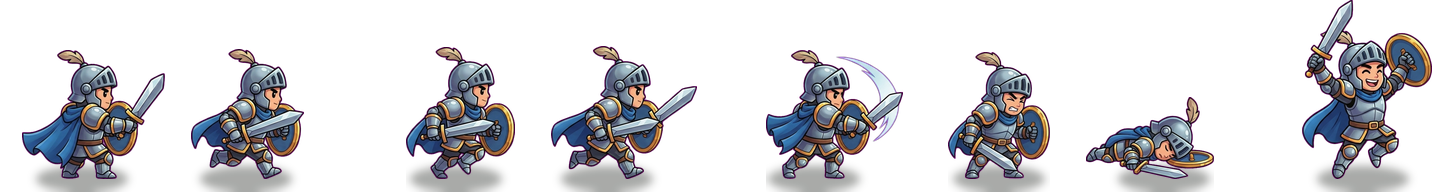
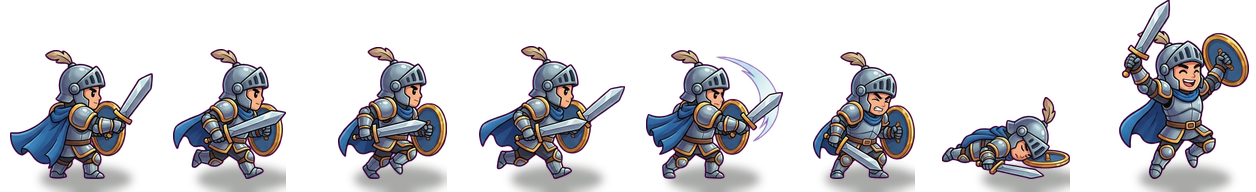
Bola de fogo no sentido certo, corrida estável, cabo do machado para o herói e base da onda na água
Claude-Session: https://claude.ai/code/session_01Pzwr3AcNttGrgNkJhUhbb6

Changed region(s): [[0.0, 0.2188, 0.8694, 1.0], [0.8694, 0.0, 1.0, 0.9375], [0.9626, 0.875, 0.9936, 0.9688]]

diff --git a/src/systems/weapons.ts b/src/systems/weapons.ts
@@ -357,6 +357,23 @@ export class WeaponSystem {
 
   // ---------- Onda (Água) ----------
 
+  private foamEmitter?: Phaser.GameObjects.Particles.ParticleEmitter;
+
+  /** Espuma branca subindo da base das ondas (um emissor para todas). */
+  private foam() {
+    this.foamEmitter ??= this.scene.add.particles(0, 0, 'atlas', {
+      frame: frameName('glow'),
+      speedY: { min: -26, max: -6 },
+      speedX: { min: -14, max: 14 },
+      lifespan: { min: 280, max: 480 },
+      scale: { start: 0.22, end: 0.05 },
+      alpha: { start: 0.95, end: 0 },
+      tint: [0xffffff, 0xe6f7ff, 0xbfe8ff],
+      emitting: false,
+    }).setDepth(LAYER.fx + 1);
+    return this.foamEmitter;
+  }
+
   private fireWave(w: WeaponRuntime): boolean {
     const p = this.scene.player;
     const target = this.scene.nearestEnemies(p.x, p.y, 1, 280)[0];
@@ -393,8 +410,11 @@ export class WeaponSystem {
     const left = cos < 0;
     const tilt = Phaser.Math.Clamp(Math.atan2(sin, Math.abs(cos)), -0.5, 0.5);
     const vertical = Math.abs(sin);
-    const img = this.scene.add.image(x0, y0, 'atlas', frameName('fx_wave')).setFlipX(left).setRotation(left ? -tilt : tilt).setDepth(LAYER.fx);
+    // a base da arte se dissolve sobre uma lâmina d'água no chão, com espuma onde a onda encosta
+    const img = this.scene.add.image(x0, y0, 'atlas', frameName('fx_wave')).setOrigin(0.5, 0.86).setFlipX(left).setRotation(left ? -tilt : tilt).setDepth(LAYER.fx);
     if (w.level >= AWAKEN_EVERY) img.setTint(0xd8f4ff);
+    const sheet = this.scene.add.image(x0, y0, 'atlas', frameName('glow')).setTint(0x5fc4ff).setAlpha(0.55).setDepth(LAYER.groundFx);
+    const foam = this.foam();
     this.live.push((dt) => {
       traveled += speed * dt;
       const k = Math.min(1, traveled / range);
@@ -404,7 +424,16 @@ export class WeaponSystem {
       const cy = y0 + sin * traveled;
       // de lado, a largura da faixa é a altura da onda; na vertical, é a largura dela
       const sc = (width / 54) * (1 - vertical) + (width / 64) * vertical;
-      img.setPosition(cx, cy).setScale(sc).setDepth(cy).setAlpha((o.alpha ?? 1) * (k > 0.8 ? (1 - k) * 5 : 1));
+      const fade = (o.alpha ?? 1) * (k > 0.8 ? (1 - k) * 5 : 1);
+      img.setPosition(cx, cy).setScale(sc).setDepth(cy).setAlpha(fade);
+      // lâmina d'água: larga no sentido da crista, achatada no chão
+      const along = width * (1 - vertical) * 0.5 + width * vertical * 1.1;
+      const across = width * (1 - vertical) * 1.1 + width * vertical * 0.5;
+      sheet.setPosition(cx - cos * 6, cy - sin * 6 + 2).setDisplaySize(along * 1.3, across * 0.5).setAlpha(0.55 * fade);
+      for (let i = 0; i < 3; i++) {
+        const r = Math.random() - 0.5;
+        foam.emitParticleAt(cx - sin * r * width * 0.9 + cos * 4, cy + cos * r * width * 0.35 + sin * 4, 1);
+      }
       this.scene.queryEnemies(cx, cy, width, (e) => {
         if (hit.has(e.uid)) return;
         const dx = e.x - x0;
@@ -418,6 +447,7 @@ export class WeaponSystem {
       });
       if (k < 1) return true;
       img.destroy();
+      sheet.destroy();
       if (g >= 2 && !o.width) {
         // a onda arrebenta no fim
         this.scene.impact(cx, cy, 0x41a6f6, 1.6);
@@ -657,8 +687,9 @@ export class WeaponSystem {
         }
         gfx.fillStyle(c, al * alpha).fillPoints([...outer, ...inner.reverse()], true);
       }
-      const tip = pt(a1, 0.9);
-      axe.setPosition(tip.x, tip.y).setRotation(a1 + Math.PI / 2).setAlpha(alpha);
+      // a arte tem a lâmina à esquerda e o cabo à direita: girada para o cabo apontar para o herói
+      const at = pt(a1, 0.72);
+      axe.setPosition(at.x, at.y).setRotation(a1 + Math.PI).setAlpha(alpha);
       // dano em quem a lâmina já varreu (só enquanto ela está descendo)
       if (k < 1 || !struck) scene.queryEnemies(p.x, p.y, reach + 20, (e) => {
         if (hit.has(e.uid)) return;
@@ -1153,5 +1184,6 @@ export class WeaponSystem {
   destroy() {
     this.orbs.forEach((o) => o.destroy());
     this.aura?.destroy();
+    this.foamEmitter?.destroy();
   }
 }

diff --git a/src/art/motion.ts b/src/art/motion.ts
@@ -18,7 +18,7 @@ const STEP = ['walk_a', 'walk_mid', 'walk_b', 'walk_mid'];
 const STRIDE = ['walk_a', 'idle', 'walk_b', 'idle'];
 const GAITS: Record<string, Gait> = {
   // herói correndo: passo com o pé de perto, passagem, passo com o pé de longe, passagem
-  hero: { fps: 10, cycle: STEP, squash: 0.035, tilt: 0.03 },
+  hero: { fps: 10, cycle: STEP, squash: 0.025, tilt: 0.01 },
   slime: { fps: 6, cycle: ['walk_a', 'walk_mid', 'walk_b', 'walk_a'], squash: 0.05, tilt: 0 },
   bat: { fps: 12, cycle: STEP, squash: 0.03, tilt: 0.05 },
   goblin: { fps: 8, cycle: STEP, squash: 0.03, tilt: 0.05 },

diff --git a/scripts/process-art.py b/scripts/process-art.py
@@ -9,7 +9,7 @@ import subprocess
 import sys
 from pathlib import Path
 
-from PIL import Image, ImageDraw, ImageFilter, ImageOps
+from PIL import Image, ImageChops, ImageDraw, ImageFilter, ImageOps
 
 SRC = Path('art/source')
 OUT = Path('src/assets/art')
@@ -89,6 +89,15 @@ def feet_span(im):
     w, h = im.size
     feet = im.getchannel('A').crop((0, int(h * 0.85), w, h)).point(lambda v: 255 if v >= 128 else 0).getbbox()
     return (feet[0], feet[2]) if feet else (0, w)
+
+
+def body_center(im):
+    """Centro (x) da cabeça e do tronco: mediana dos pixels opacos entre 8% e 45% da altura. Estável
+    entre os quadros de uma corrida, ao contrário dos pés, que se abrem e fecham."""
+    w, h = im.size
+    px = im.getchannel('A').load()
+    xs = [x for y in range(int(h * 0.08), int(h * 0.45), 2) for x in range(0, w, 2) if px[x, y] >= 128]
+    return sorted(xs)[len(xs) // 2] if xs else w / 2
 
 
 def with_shadow(im, size=None, cx=None):
@@ -251,11 +260,15 @@ def strip(frames, a, res, n_ref):
     k = a['h'] * res / heights[len(heights) // 2]
     frames = [premul_resize(f, (max(1, round(f.width * k)), max(1, round(f.height * k)))) for f in frames]
     fly = not a.get('shadow')
+    # bípedes: alinhados pela cabeça e tronco (os pés abrem e fecham na corrida e o corpo pularia
+    # de lado); os outros, pelo centro dos pés
+    biped = a.get('body') == 'biped'
+    anchors = [f.width / 2 if fly else body_center(f) if biped else sum(feet_span(f)) / 2 for f in frames]
     if a.get('shadow'):
         x0, x1 = feet_span(frames[0])
         size = max((x1 - x0) * 1.3, frames[0].width * 0.35)
-        frames = [with_shadow(f, size) for f in frames]
-    anchors = [(sum(feet_span(f)) / 2 if not fly else f.width / 2) for f in frames]
+        # sombra sempre sob o ponto de alinhamento: não escorrega entre os quadros
+        frames = [with_shadow(f, size, c if biped else None) for f, c in zip(frames, anchors)]
     left = max(anchors)
     right = max(f.width - c for f, c in zip(frames, anchors))
     cw = int(left + right) + 2
@@ -349,6 +362,15 @@ def main():
         cut = cut_background(Image.open(src))
         if a.get('flip'):
             cut = ImageOps.mirror(cut)
+        if a.get('fade'):
+            # base que some aos poucos (efeitos que encostam no chão, como a onda)
+            alpha = cut.getchannel('A')
+            ramp = Image.new('L', cut.size, 255)
+            start = int(cut.height * (1 - a['fade']))
+            ImageDraw.Draw(ramp).rectangle((0, start, cut.width, cut.height), fill=0)
+            for y in range(start, cut.height):
+                ImageDraw.Draw(ramp).line((0, y, cut.width, y), fill=round(255 * (1 - (y - start) / (cut.height - start)) ** 1.5))
+            cut.putalpha(ImageChops.multiply(alpha, ramp))
         if hd == 4 and not name.startswith('hero_'):
             # ícones: caixa quadrada para alinhar nas molduras
             side = max(cut.size)

diff --git a/docs/ART_PLAN.md b/docs/ART_PLAN.md
@@ -75,3 +75,5 @@ Toda criatura nova segue o modelo do seu papel (`FRAME_TEMPLATES` em `art/manife
 - Uma figura que passa só um pouco da sua coluna (ponta de espada, asa, cajado) vai inteira para o próprio quadro; só figuras encostadas de verdade são divididas, e o `process-art.py` avisa quando isso acontece.
 - Folhas com 4 quadros ou mais são geradas em formato largo (21:9): no formato quadrado a IA as desenhava em grade 2×2.
 - Heróis: o ciclo de movimento é de corrida (`RUN` em `art/manifest.mjs`).
+- Bípedes são alinhados pela cabeça e tronco (não pelos pés, que abrem e fecham na corrida); a sombra fica fixa sob esse ponto.
+- `flip` vale também para imagens soltas (a bola de fogo veio olhando para a esquerda); `fade` dissolve a base de efeitos que tocam o chão (onda).
